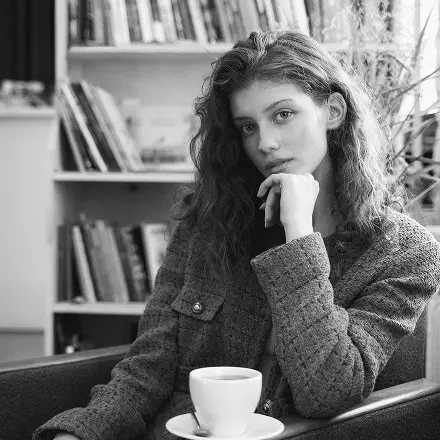
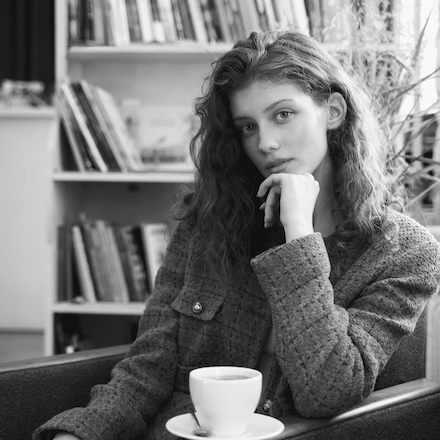
feat: add about-section, portfolio-section

diff --git a/portfolio/index.html b/portfolio/index.html
@@ -143,13 +143,16 @@
                 src="images/img-photographer-1.webp"
                 alt="Image of the author"
                 class="about__photo" />
-              <h2 class="heading-section">About Me</h2>
-              <p class="about__paragraph">
-                Hi! I’m Vera, a photographer with 5 years of experience. For me,
-                photography is more than just an image. It’s a way to feel the
-                moment, capture the atmosphere, and freeze time. I work with
-                people, stories, and emotions.
-              </p>
+
+              <div class="about__col--content">
+                <h2 class="heading-section">About Me</h2>
+                <p class="about__paragraph">
+                  Hi! I’m Vera, a photographer with 5 years of experience. For
+                  me, photography is more than just an image. It’s a way to feel
+                  the moment, capture the atmosphere, and freeze time. I work
+                  with people, stories, and emotions.
+                </p>
+              </div>
             </div>
             <div class="about__col about__col--2">
               <p class="about__paragraph">
@@ -175,8 +178,141 @@
           </div>
         </div>
       </section>
-      <section class="portfolio" id="portfolio"></section>
-      <section class="price" id="price"></section>
+      <section class="portfolio" id="portfolio">
+        <div class="container">
+          <h2 class="heading-section">My Portfolio</h2>
+          <p class="portfolio__paragraph">
+            Every shoot is a story. Here you’ll find portraits, love stories,
+            family sessions, and more.
+          </p>
+        </div>
+        <div class="slider">
+          <div class="slider__track">
+            <div class="slider__item">
+              <img src="images/gallery/glr-1.webp" alt="" />
+            </div>
+            <div class="slider__item">
+              <img src="images/gallery/glr-2.webp" alt="" />
+            </div>
+            <div class="slider__item">
+              <img src="images/gallery/glr-3.webp" alt="" />
+            </div>
+            <div class="slider__item">
+              <img src="images/gallery/glr-4.webp" alt="" />
+            </div>
+            <div class="slider__item">
+              <img src="images/gallery/glr-5.webp" alt="" />
+            </div>
+            <div class="slider__item">
+              <img src="images/gallery/glr-6.webp" alt="" />
+            </div>
+            <div class="slider__item">
+              <img src="images/gallery/glr-7.webp" alt="" />
+            </div>
+            <div class="slider__item">
+              <img src="images/gallery/glr-8.webp" alt="" />
+            </div>
+            <div class="slider__item">
+              <img src="images/gallery/glr-9.webp" alt="" />
+            </div>
+            <div class="slider__item">
+              <img src="images/gallery/glr-10.webp" alt="" />
+            </div>
+            <div class="slider__item">
+              <img src="images/gallery/glr-11.webp" alt="" />
+            </div>
+            <div class="slider__item">
+              <img src="images/gallery/glr-12.webp" alt="" />
+            </div>
+          </div>
+        </div>
+      </section>
+      <section class="price" id="price">
+        <div class="container">
+          <h2 class="heading-section">Packages &amp; Pricing</h2>
+          <p class="price__paragraph">
+            Choose the package that suits your story. All options are
+            customizable to your needs.
+          </p>
+          <div class="cards">
+            <div class="card card--1">
+              <div class="card__details">
+                <h3 class="card__heading">Mini</h3>
+                <ul class="card__list">
+                  <li class="card__item">Up to 1 hour of shooting</li>
+                  <li class="card__item">1 outfit / 1 location</li>
+                  <li class="card__item">20 edited photos</li>
+                  <li class="card__item">Online gallery</li>
+                  <li class="card__item">Delivery within 7 days</li>
+                </ul>
+                <span class="card__price">€150</span>
+              </div>
+              <p class="card__descrip">For short sessions and quick results</p>
+              <button class="card__btn">Book Now</button>
+            </div>
+
+            <div class="card card--2">
+              <div class="card__details">
+                <h3 class="card__heading">Classic</h3>
+                <ul class="card__list">
+                  <li class="card__item">Up to 2 hours of shooting</li>
+                  <li class="card__item">2 outfits / 2 locations</li>
+                  <li class="card__item">40+ edited photos</li>
+                  <li class="card__item">Online gallery</li>
+                  <li class="card__item">Pre-shoot consultation</li>
+                  <li class="card__item">Posing guidance</li>
+                  <li class="card__item">Delivery within 10 days</li>
+                </ul>
+                <span class="card__price">€280</span>
+              </div>
+              <p class="card__descrip">
+                Perfect for couples, portraits, or lifestyle
+              </p>
+              <button class="card__btn">Book Now</button>
+            </div>
+
+            <div class="card card--3">
+              <div class="card__details">
+                <h3 class="card__heading">Story</h3>
+                <ul class="card__list">
+                  <li class="card__item">Up to 4 hours of shooting</li>
+                  <li class="card__item">3–4 outfits and locations</li>
+                  <li class="card__item">80+ edited photos</li>
+                  <li class="card__item">Online gallery + backup link</li>
+                  <li class="card__item">Custom route planning</li>
+                  <li class="card__item">Moodboard and styling help</li>
+                  <li class="card__item">Includes breaks and travel time</li>
+                  <li class="card__item">Delivery within 14 days</li>
+                </ul>
+                <span class="card__price">€450</span>
+              </div>
+              <p class="card__descrip">
+                For when you want to capture everything
+              </p>
+              <button class="card__btn">Book Now</button>
+            </div>
+
+            <div class="card card--4">
+              <div class="card__details">
+                <h3 class="card__heading">Wedding</h3>
+                <ul class="card__list">
+                  <li class="card__item">Up to 8 hours of shooting</li>
+                  <li class="card__item">All key moments covered</li>
+                  <li class="card__item">250+ artistically edited photos</li>
+                  <li class="card__item">Custom timeline planning</li>
+                  <li class="card__item">Online gallery + USB drive</li>
+                  <li class="card__item">Delivery within 21 days</li>
+                  <li class="card__item">Extras: photo album, prints</li>
+                  <li class="card__item">Optional second-day shoot</li>
+                </ul>
+                <span class="card__price">€900</span>
+              </div>
+              <p class="card__descrip">Full-day or partial wedding coverage</p>
+              <button class="card__btn">Book Now</button>
+            </div>
+          </div>
+        </div>
+      </section>
       <section class="faq" id="faq"></section>
     </main>
     <footer class="footer" id="contacts"></footer>

diff --git a/portfolio/src/styles/price.scss b/portfolio/src/styles/price.scss
@@ -1,0 +1,99 @@
+.price {
+  &__paragraph {
+    margin-bottom: 40px;
+  }
+}
+
+.cards {
+  display: flex;
+  gap: 40px;
+  flex-wrap: wrap;
+  justify-content: center;
+
+  @media (max-width: 768px) {
+    gap: 20px;
+  }
+}
+
+.card {
+  display: flex;
+  flex-direction: column;
+  flex: 0 0 auto;
+  border: 1px solid var(--color-primary);
+  width: 320px;
+  height: 500px;
+  padding: 24px;
+
+  &__details {
+    display: flex;
+    flex-direction: column;
+    gap: 12px;
+  }
+
+  &__list {
+    list-style: none;
+    padding: 0;
+    color: var(--color-primary);
+  }
+
+  &__item {
+    position: relative;
+    padding-left: 12px;
+    font-style: normal;
+    font-weight: 400;
+    line-height: 150%;
+
+    &::before {
+      content: '';
+      position: absolute;
+      top: 8px;
+      left: 0;
+      background-color: var(--color-primary);
+      width: 6px;
+      height: 6px;
+    }
+
+    &:not(:last-child) {
+      margin-bottom: 4px;
+    }
+  }
+
+  &__price {
+    font-family: 'Oswald';
+    font-size: 16px;
+    font-style: normal;
+    font-weight: 400;
+    line-height: 150%;
+    text-transform: uppercase;
+  }
+
+  &__descrip {
+    margin-top: auto;
+    font-size: 16px;
+    font-style: italic;
+    font-weight: 400;
+    line-height: 125%;
+    margin-bottom: 12px;
+  }
+
+  &__btn {
+    border: none;
+    width: 100%;
+    color: #fff;
+    background-color: var(--color-primary);
+    font-family: 'Oswald';
+    font-size: 16px;
+    font-style: normal;
+    font-weight: 400;
+    line-height: 150%;
+    text-transform: uppercase;
+    padding: 18px 0;
+    cursor: pointer;
+    transition: all 0.3s ease;
+
+    &:hover {
+      color: var(--color-primary);
+      background-color: var(--color-hover);
+    }
+  }
+}

diff --git a/portfolio/src/styles/_portfolio.scss b/portfolio/src/styles/_portfolio.scss
@@ -1,0 +1,60 @@
+.portfolio {
+  background-color: var(--color-primary);
+  color: #fff;
+
+  &__paragraph {
+    max-width: 360px;
+    margin-bottom: 40px;
+  }
+}
+
+
+.slider {
+    max-width: 1440px;   
+    margin: 0 auto;      
+    overflow: hidden;    
+    padding: 0 20px; 
+  
+
+  &__track {
+    display: flex;
+    gap: 20px; 
+    transition: transform 0.3s ease;
+    transform: translateX(-88.6%);
+    height: 654px; 
+
+     @media (max-width: 1024px) {
+      transform: translateX(-145.6%);
+    }
+
+       @media (max-width: 768px) {
+      transform: translateX(-216.6%);
+    }
+
+    @media (max-width: 380px) {
+     transform: translateX(-520.6%);
+    } 
+  }
+
+  &__item {
+    flex: 0 0 auto;
+    display: flex;
+    flex-direction: column;
+    
+    img {
+      display: block;
+    }
+
+    &:nth-child(2), &:nth-child(3), &:nth-child(5), &:nth-child(6), &:nth-child(9), &:nth-child(11){
+      justify-content: center;
+    }
+
+    &:nth-child(3), &:nth-child(5), &:nth-child(11){
+      margin-bottom: 40px;
+    }
+
+    &:nth-child(8), &:nth-child(1){
+      justify-content: flex-end;
+    }
+  }
+}

diff --git a/portfolio/src/styles/_about.scss b/portfolio/src/styles/_about.scss
@@ -2,5 +2,30 @@
   &__container {
     display: flex;
     gap: 40px;
+
+    @media (max-width: 768px) {
+      flex-direction: column;
+    }
+  }
+
+  &__col {
+    max-width: 440px;
+    display: flex;
+    flex-direction: column;
+    gap: 40px;
+    flex: 1;
+
+    @media (max-width: 768px) {
+      max-width: 100%;
+
+      &--3 .about__photo {
+        display: none;
+      }
+    }
+  }
+
+  &__photo {
+    display: block;
+    width: 100%;
   }
 }

diff --git a/portfolio/src/styles/_typography.scss b/portfolio/src/styles/_typography.scss
@@ -37,3 +37,23 @@ h1 {
     line-height: 114.286%;
   }
 }
+
+.heading-section {
+  font-family: 'Oswald';
+  font-size: 32px;
+  font-style: normal;
+  font-weight: 400;
+  line-height: 125%;
+  text-transform: uppercase;
+  margin-bottom: 12px;
+}
+
+.card__heading{
+  color: #222;
+font-family: 'Oswald';
+font-size: 20px;
+font-style: normal;
+font-weight: 400;
+line-height:  140%;
+text-transform: uppercase;
+}

diff --git a/portfolio/src/styles/main.scss b/portfolio/src/styles/main.scss
@@ -3,3 +3,5 @@
 @use 'header.scss';
 @use 'hero.scss';
 @use 'about.scss';
+@use 'portfolio.scss';
+@use 'price.scss';

diff --git a/portfolio/src/js/main.js b/portfolio/src/js/main.js
@@ -1,3 +1,5 @@
 import '../styles/main.scss';
 
 console.log('It works!');
+
+
